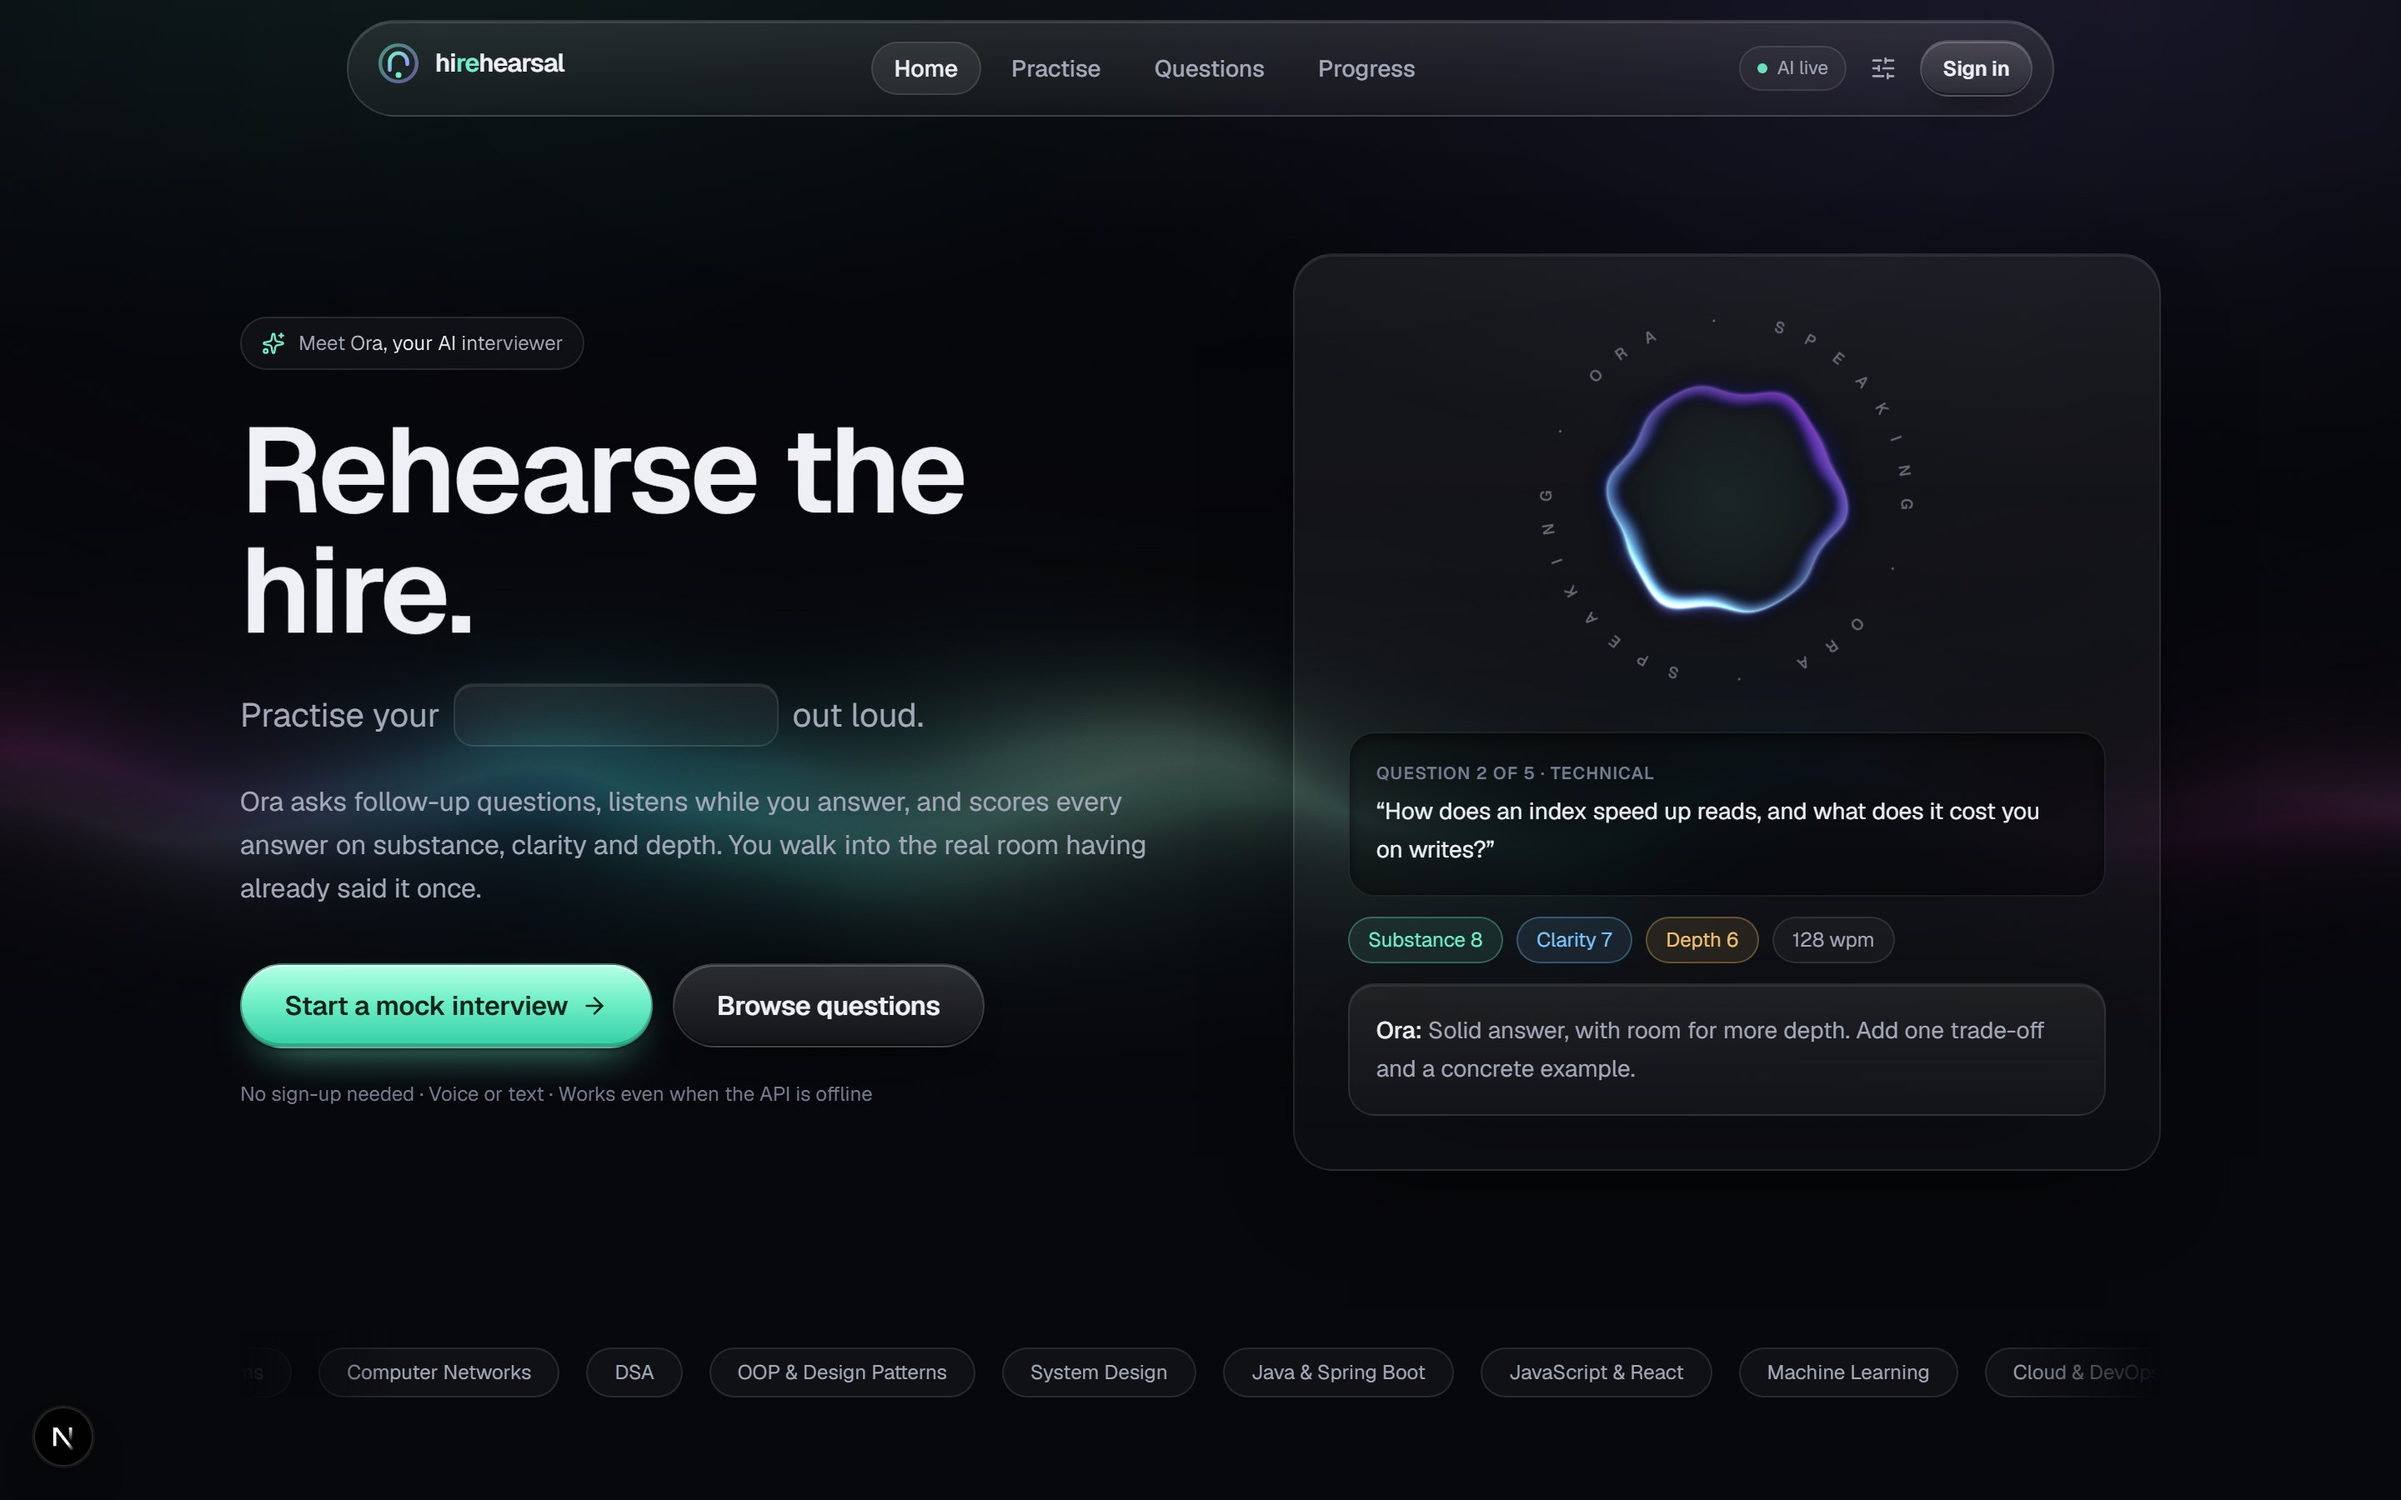
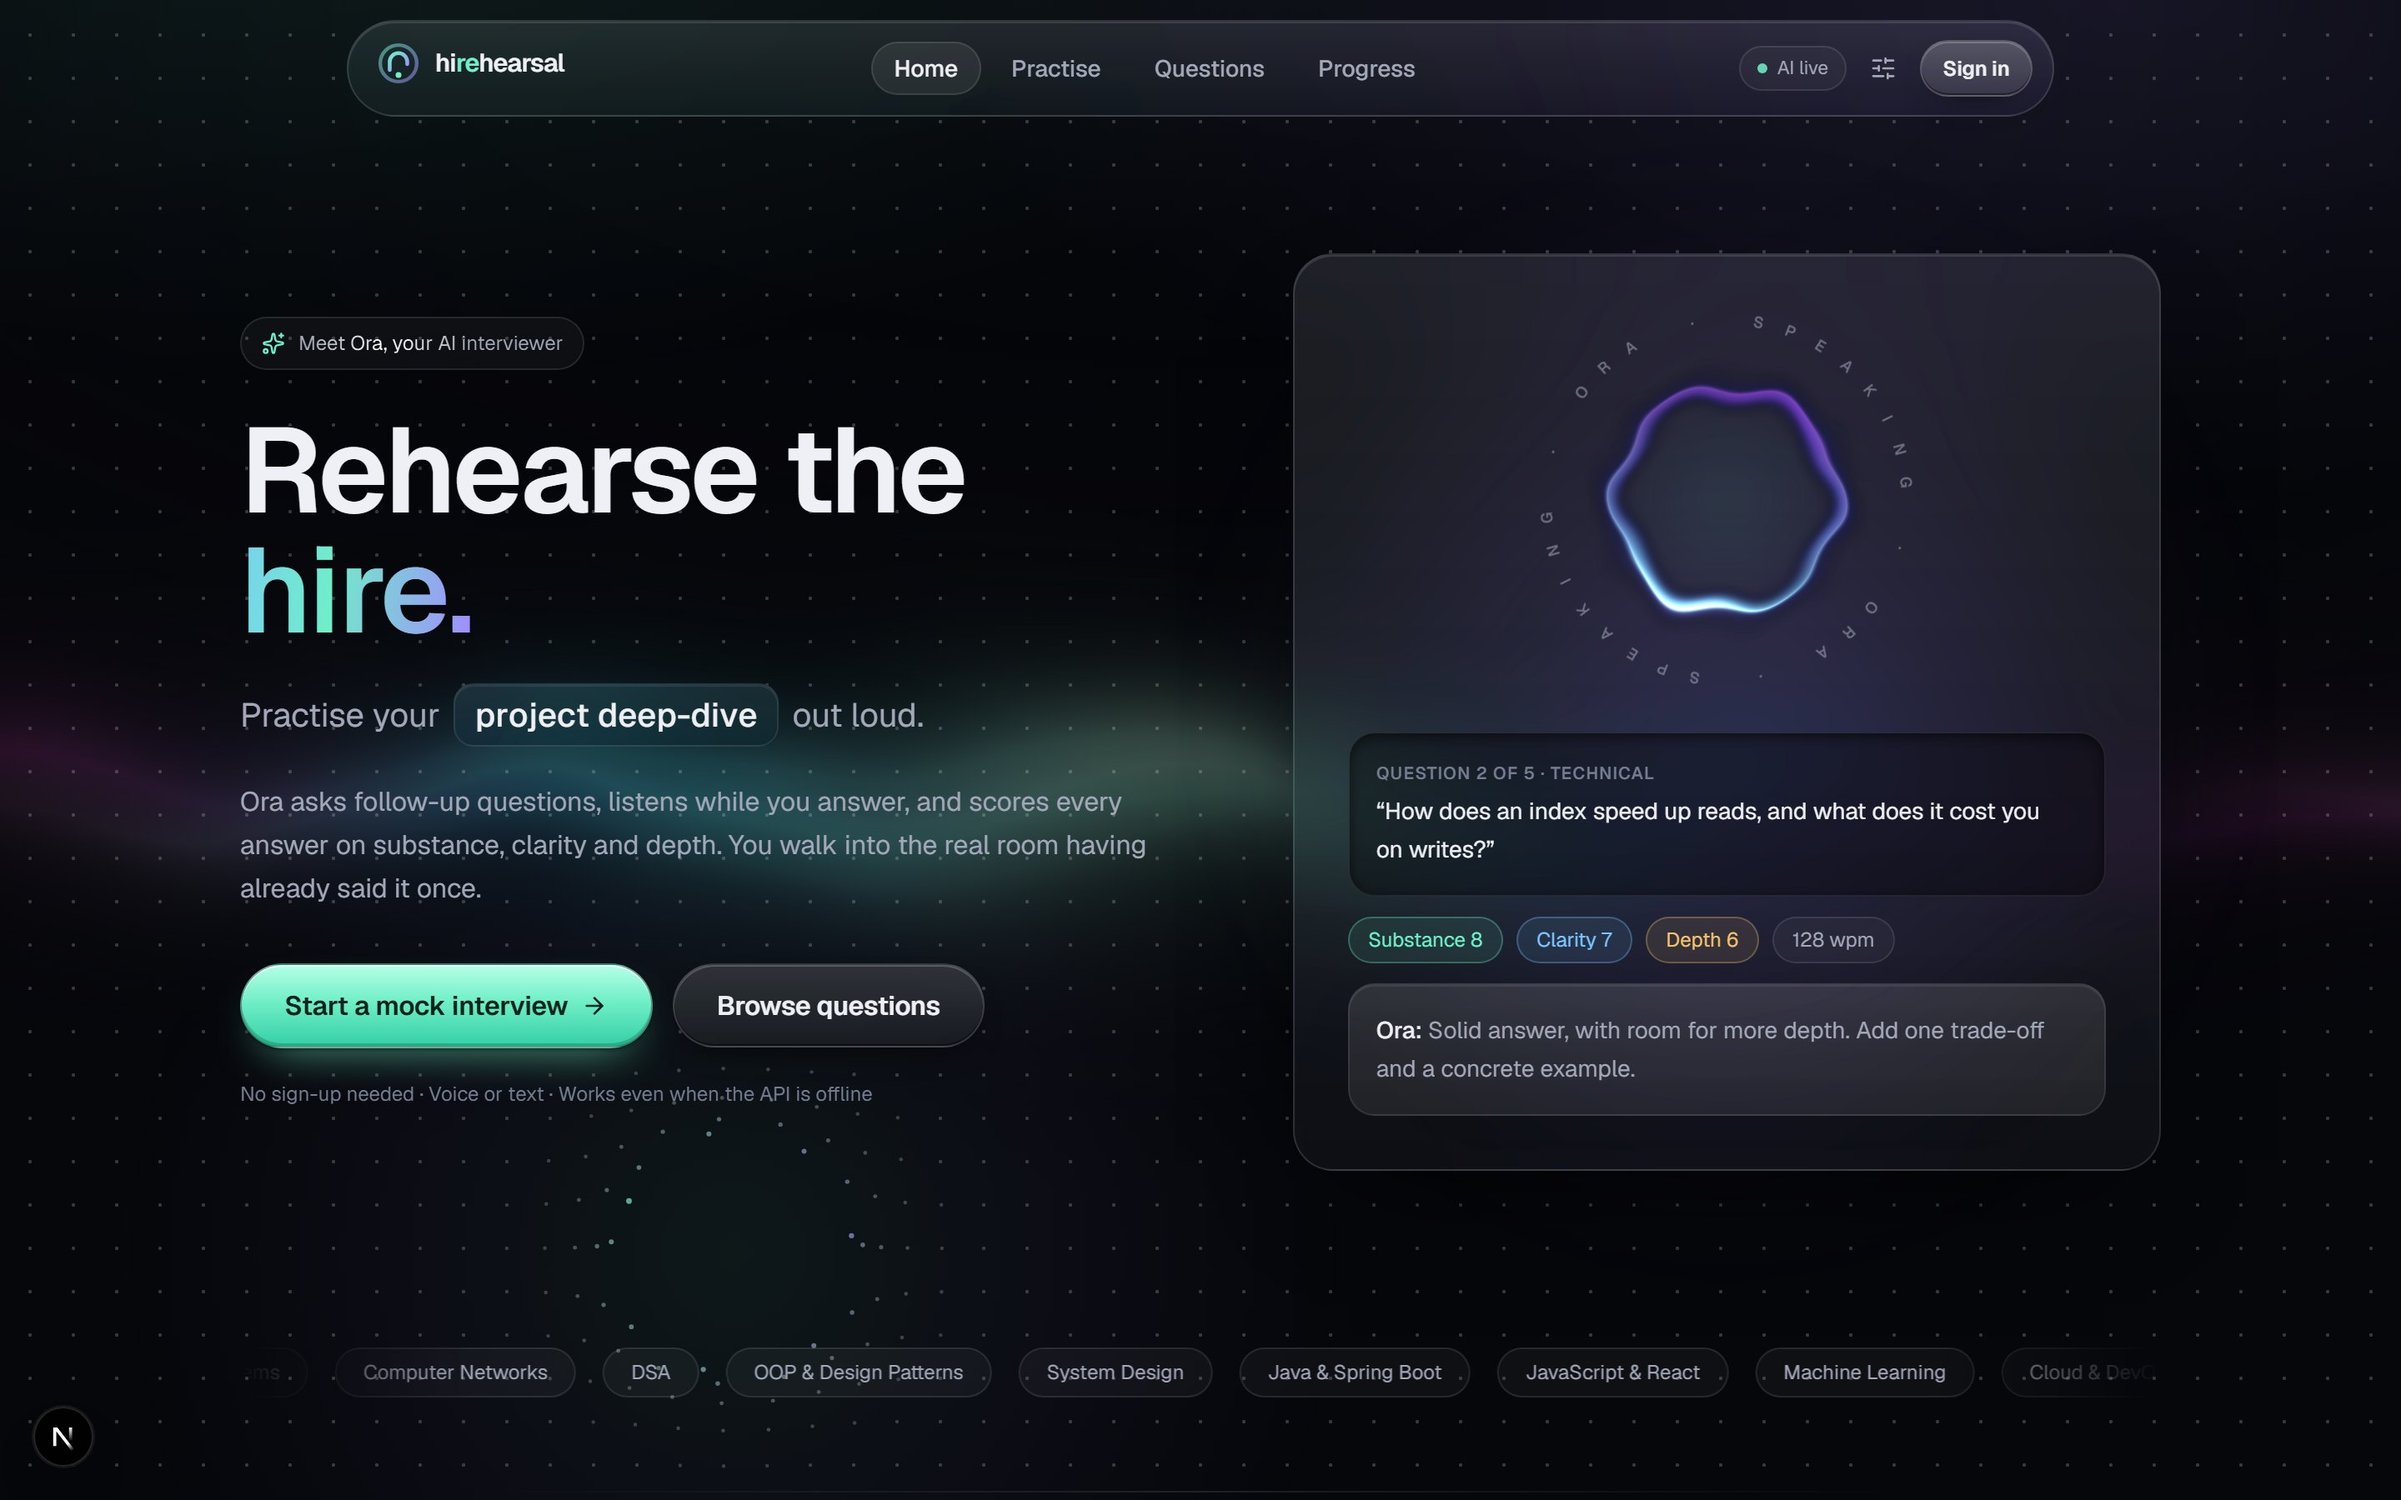
Refresh README screenshots for the frosted glass and dot field
Landing, setup, dashboard, library and scorecard re-shot now that glass blurs in Chrome; the room is unchanged because it keeps a still background. Adds a design note on keeping the animated background cheap.

diff --git a/README.md b/README.md
@@ -122,6 +122,11 @@ one scored by the API.
   `Retry-After` window and a 401/403 parks it longer, then the next key is tried.
 - **Content never depends on JavaScript animation.** Questions, scores and panels animate with CSS, so a
   throttled frame loop can never leave the interview invisible.
+- **The living background is cheap.** The cursor-reactive dot field repaints only the patch around dots
+  that are moving and stops once they settle, the aurora renders at 30fps, and the cursor glow moves on
+  the compositor instead of repainting the page. Entrance animations do not keep their final keyframe,
+  because a lingering filter or opacity on an ancestor would cut the frosted glass off from what is
+  behind it.
 
 ## Tech stack
 
